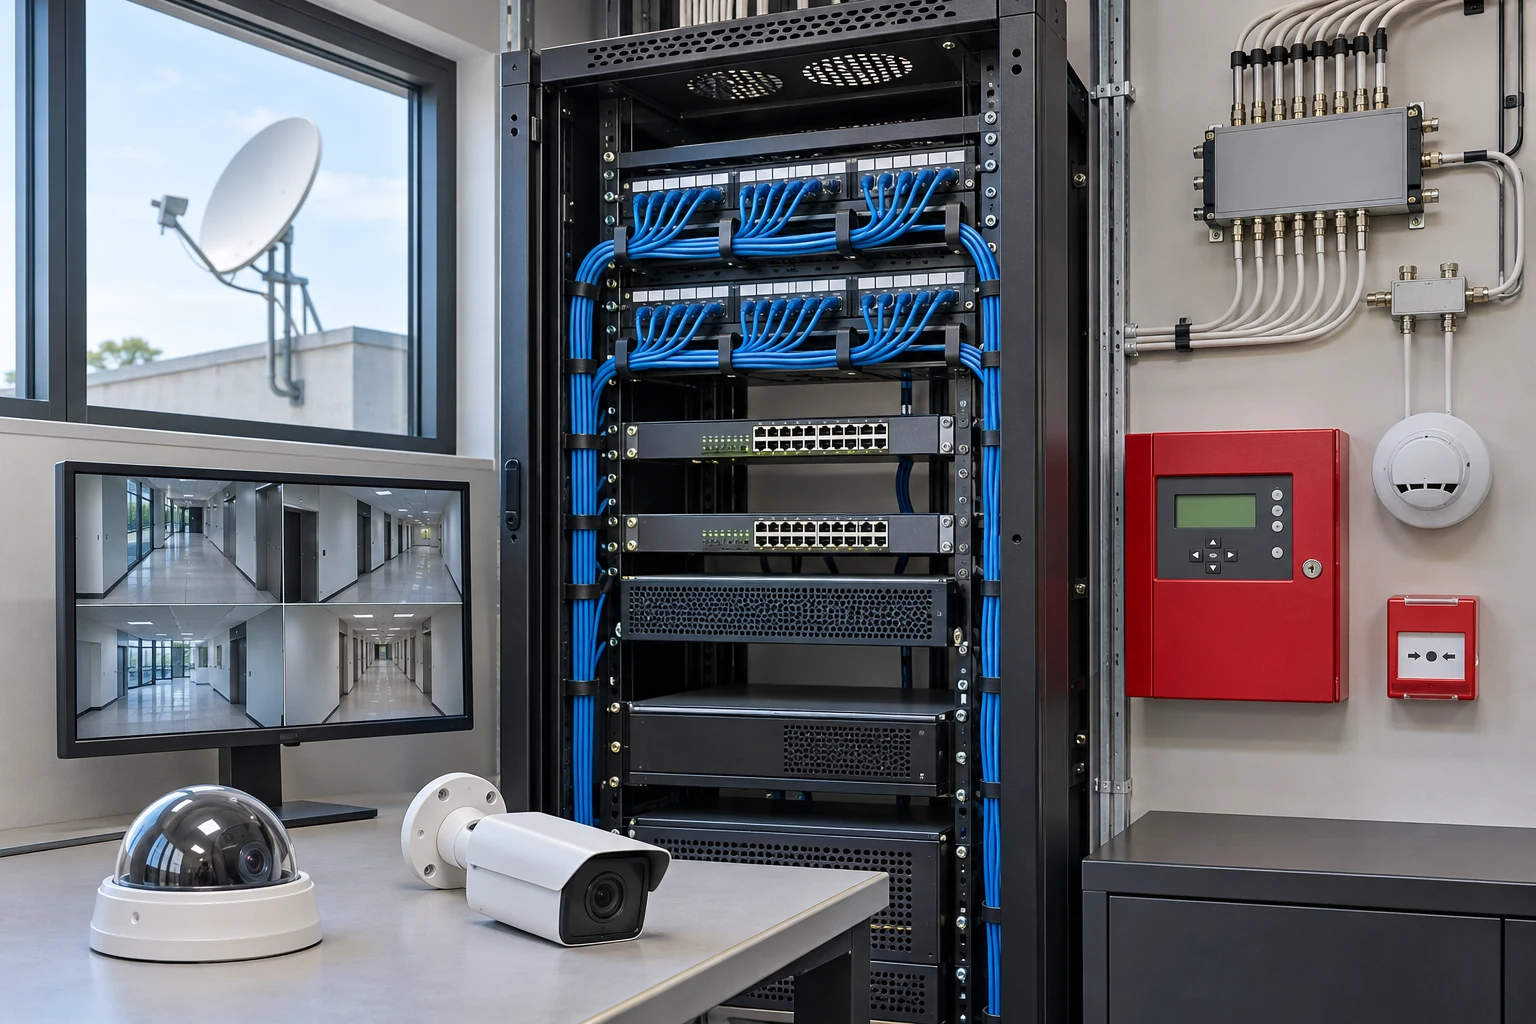
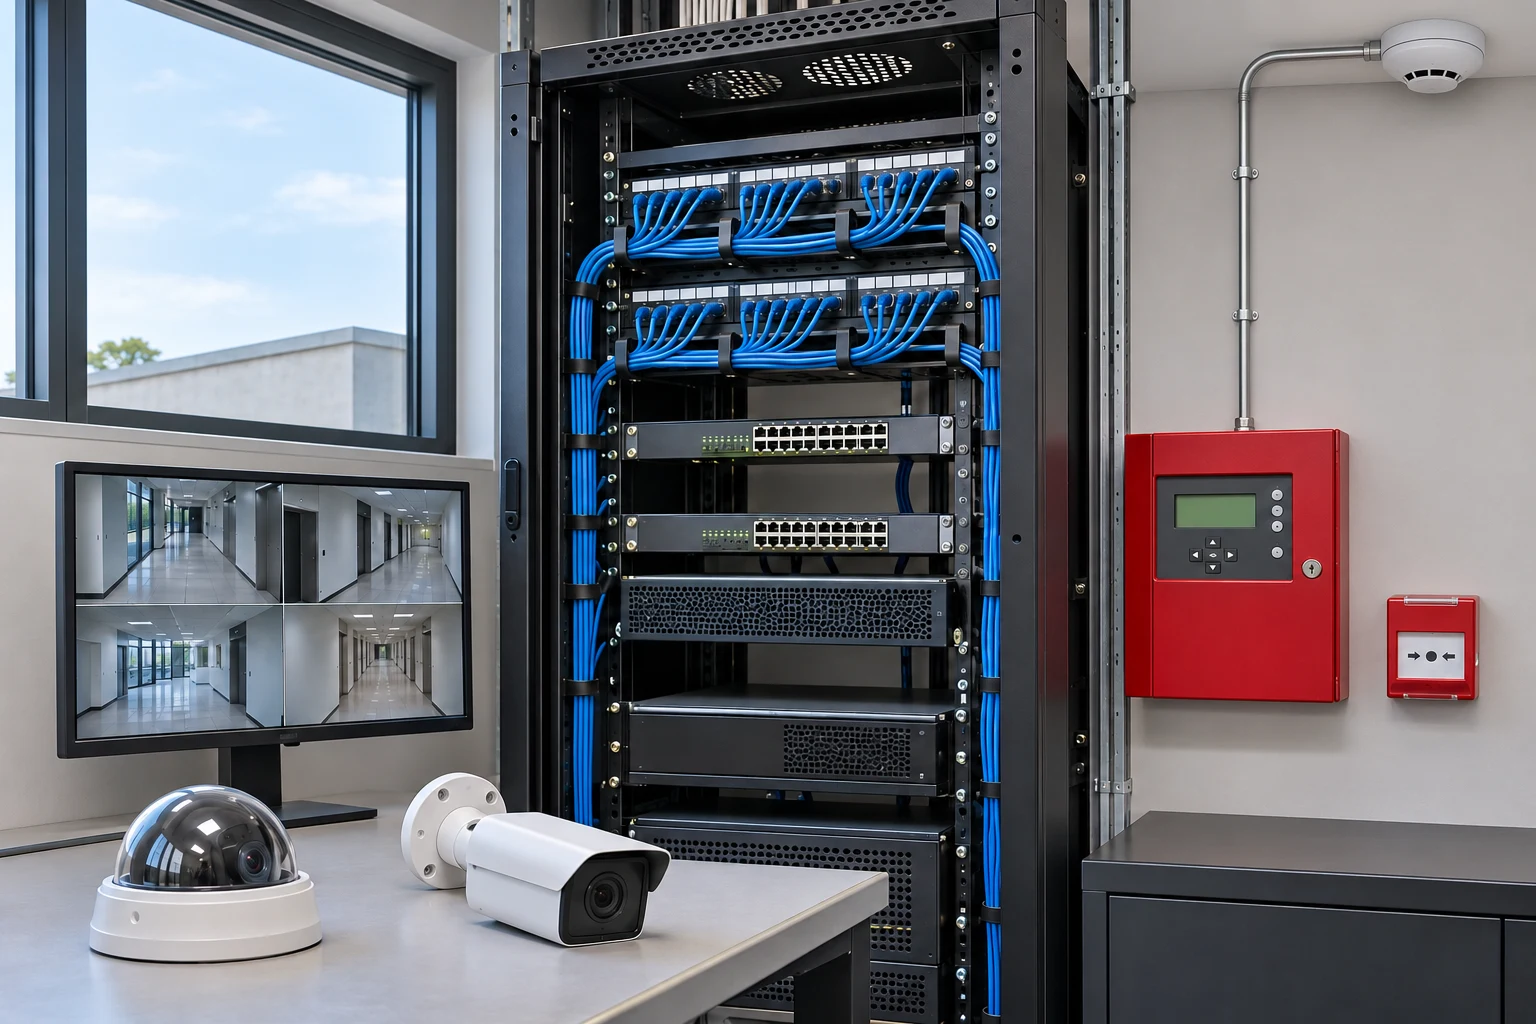
Update requested low-current image: fix detector and remove satellite

diff --git a/expertise-image-credits.html b/expertise-image-credits.html
@@ -72,10 +72,10 @@
 
     <div class="credit-list">
       <article class="credit-card" aria-labelledby="credit-low-current">
-        <a href="./expertise-low-current-v2.webp" aria-label="View the low-current systems illustration"><img src="./expertise-low-current-v2.webp" alt="CCTV, fire alarm, satellite television and network systems" width="1536" height="1024" loading="lazy"></a>
+        <a href="./expertise-low-current-v2.webp" aria-label="View the low-current systems illustration"><img src="./expertise-low-current-v2.webp" alt="CCTV, fire alarm and network systems" width="1536" height="1024" loading="lazy"></a>
         <div class="credit-body">
           <h2 id="credit-low-current">Low-current systems</h2>
-          <p>AI-generated photorealistic illustration of CCTV, fire alarm, satellite television and network equipment. Created for Sanan Company without branding; not a photograph of a completed Sanan installation.</p>
+          <p>AI-generated photorealistic illustration of CCTV, fire alarm and network equipment. Created for Sanan Company without branding; not a photograph of a completed Sanan installation.</p>
         </div>
       </article>
 

diff --git a/expertise-services.js b/expertise-services.js
@@ -5,8 +5,8 @@ export const expertiseServices = [
     text: 'Low-current systems for building communications, security and fire detection, including CCTV, structured networks, television distribution and dedicated fire-alarm equipment.',
     details: ['CCTV surveillance', 'Data networks & TV distribution', 'Fire detection & alarm systems'],
     image: 'expertise-low-current-v2.webp', width: 1536, height: 1024,
-    alt: 'Low-current systems with CCTV cameras, a fire alarm panel, satellite television distribution equipment and an organized network rack',
-    caption: 'CCTV, fire alarm, satellite & networks', generatedIllustration: true
+    alt: 'Low-current systems with CCTV cameras, a fire alarm panel, a ceiling-mounted smoke detector with conduit and an organized network rack',
+    caption: 'CCTV, fire alarm & network systems', generatedIllustration: true
   },
   {
     id: 'lv', title: 'Low-voltage (LV) systems', tag: 'BUILDING POWER DISTRIBUTION',
